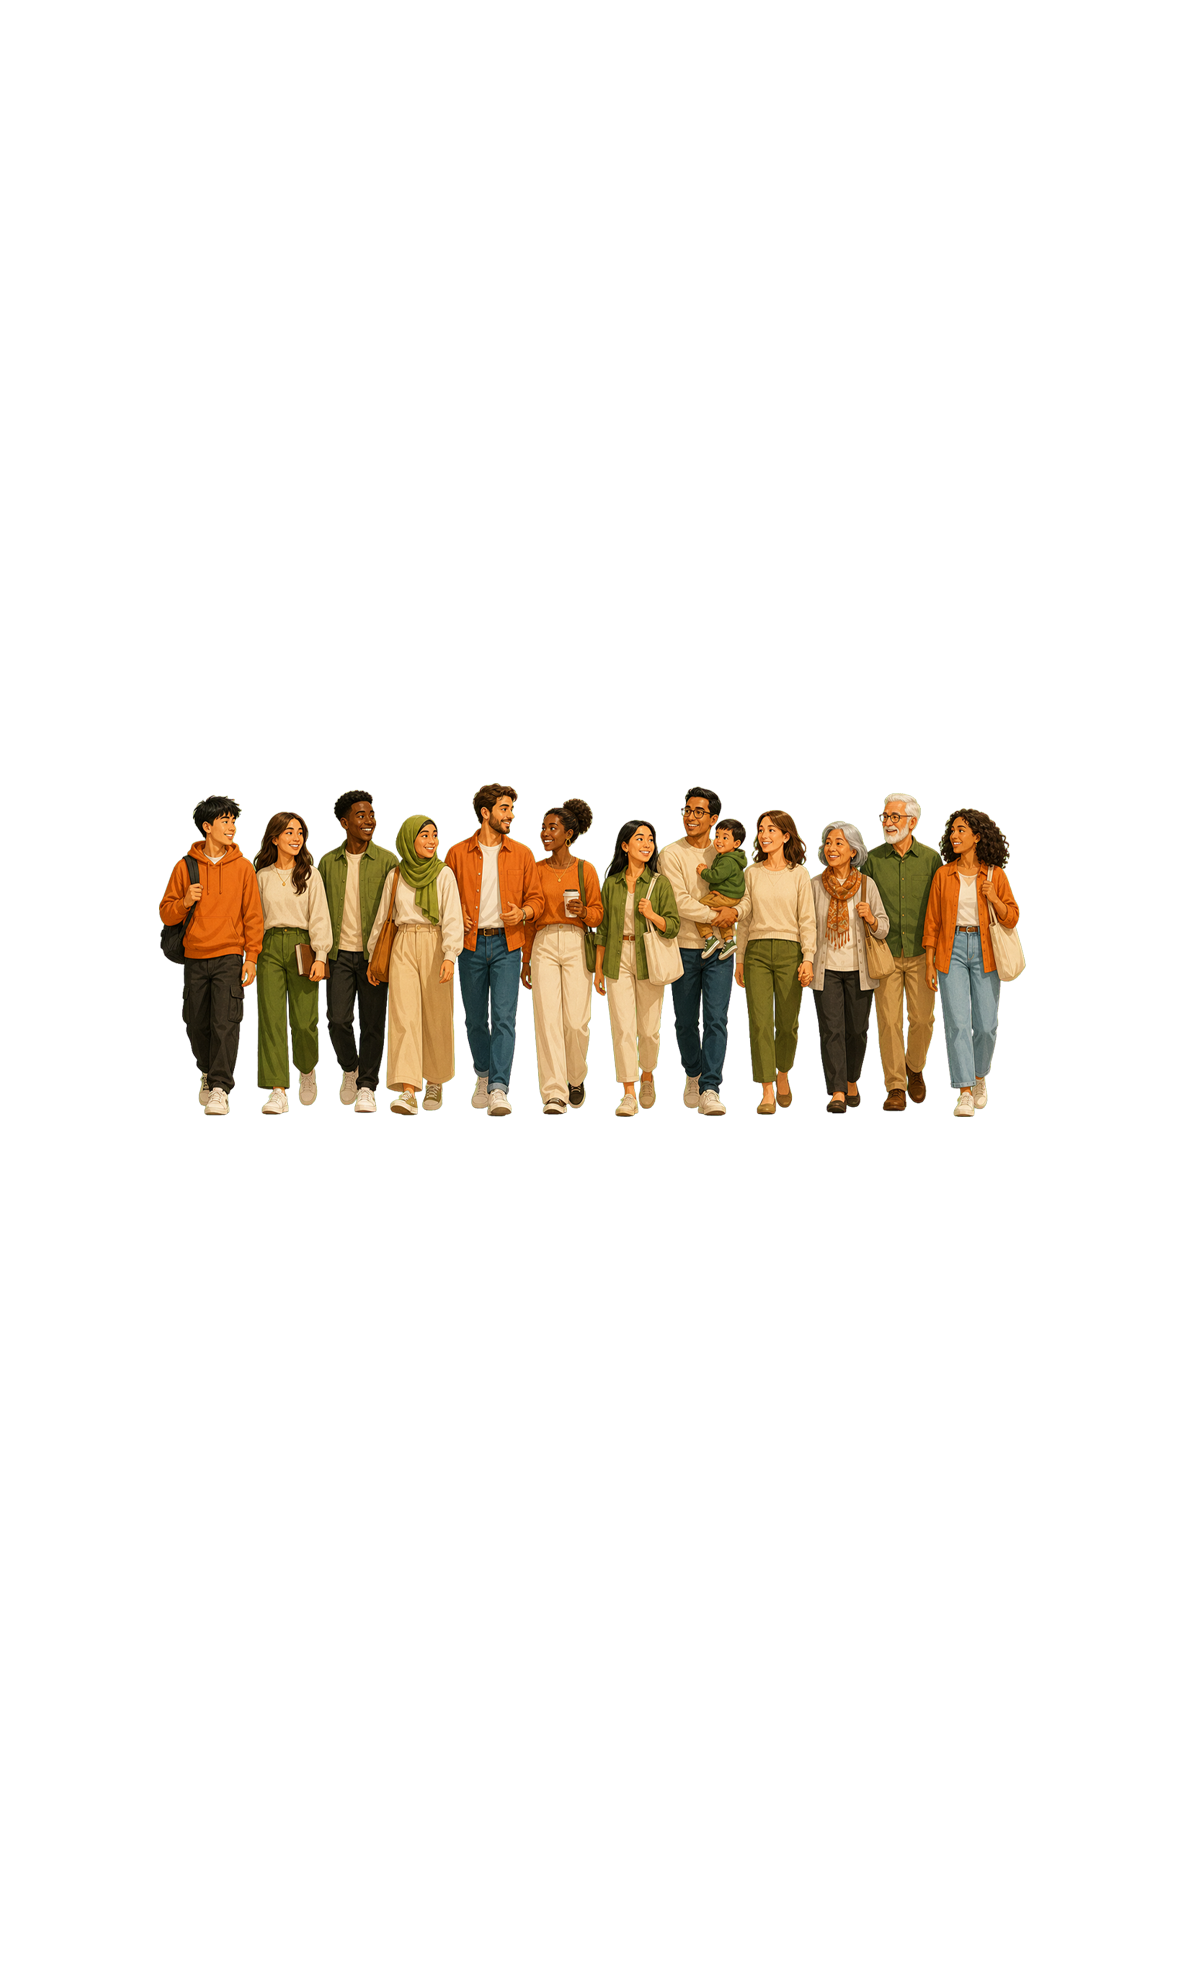
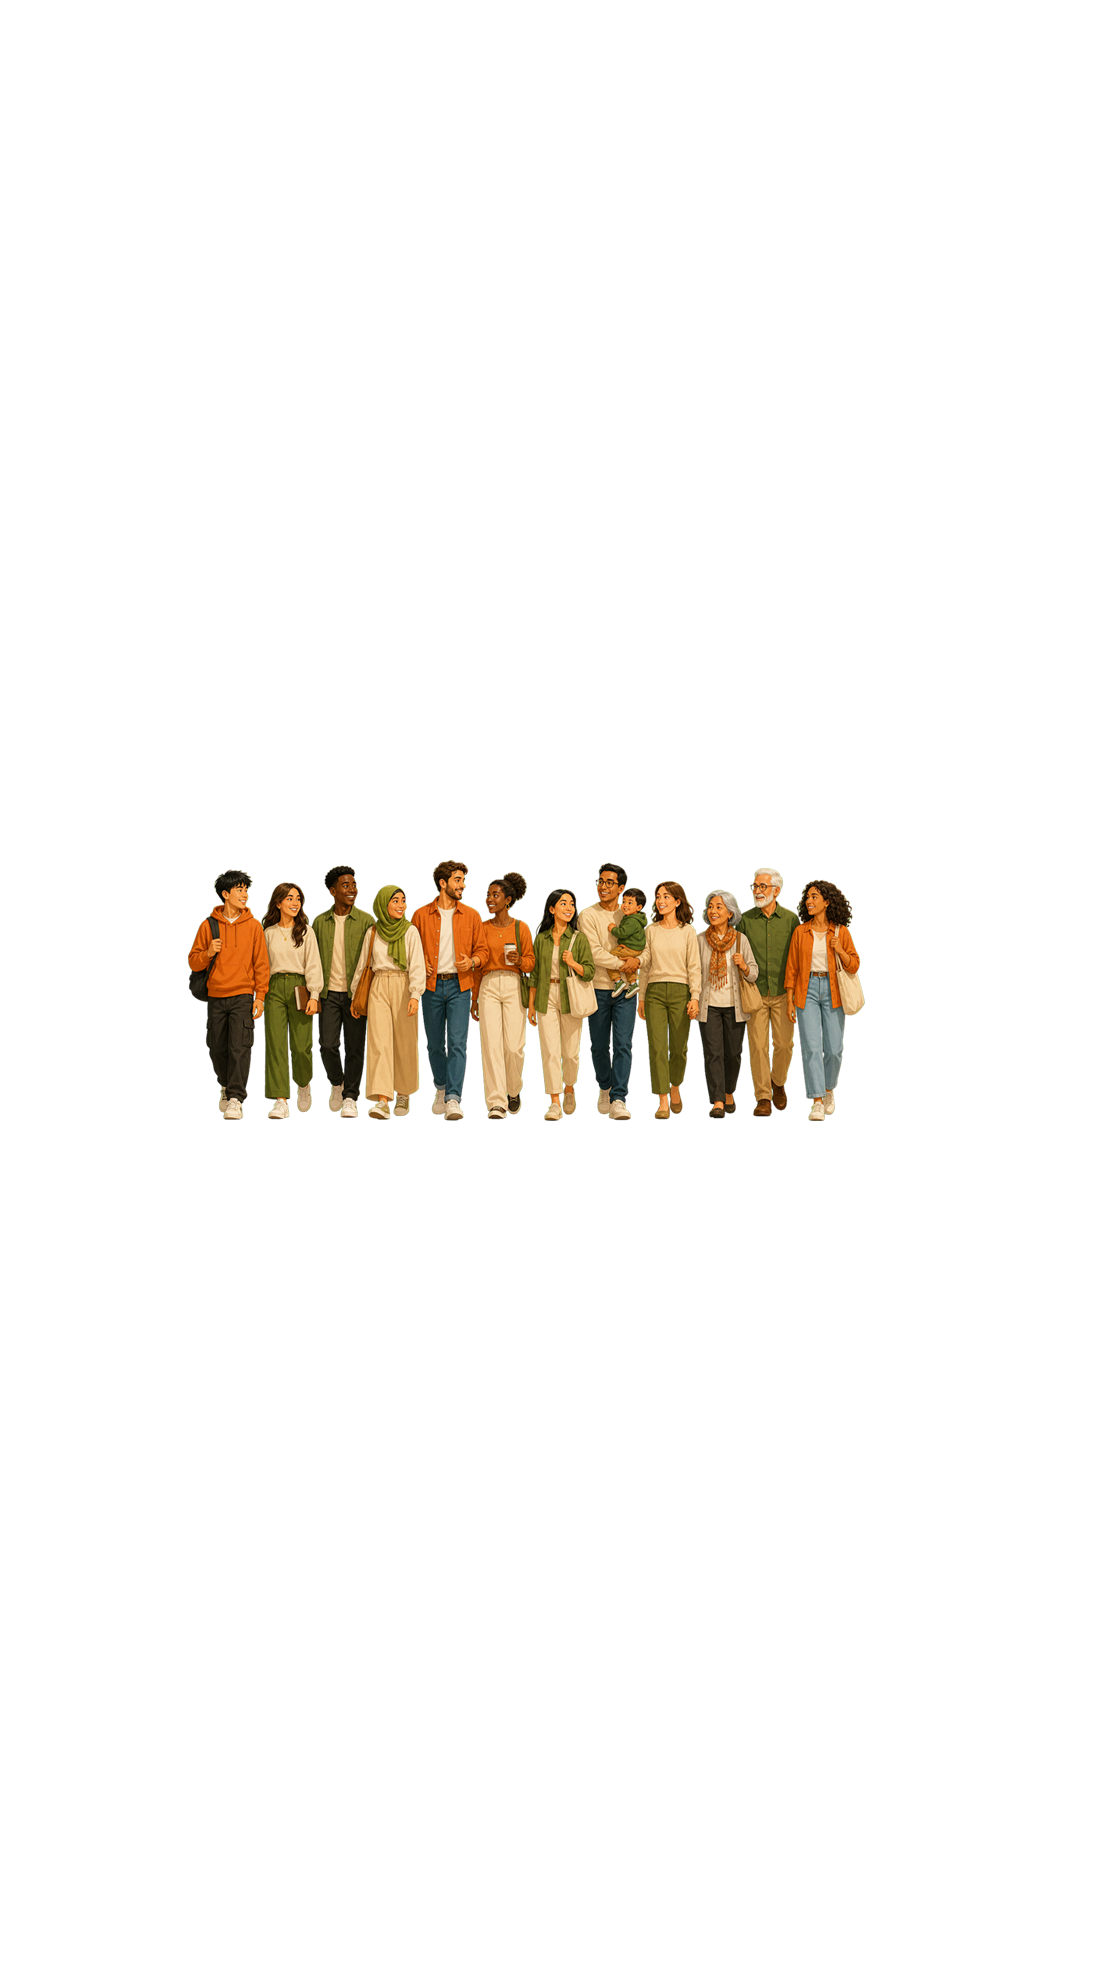
Publish admin workspace update

Changed region(s): [[0.1221, 0.3697, 0.8851, 0.5854]]

diff --git a/oneinhim_admin_workshop.html b/oneinhim_admin_workshop.html
@@ -527,6 +527,17 @@
       object-fit: cover;
     }
 
+    .card-preview-placeholder {
+      align-items: center;
+      color: var(--muted);
+      display: flex;
+      font-weight: 900;
+      height: 100%;
+      justify-content: center;
+      padding: 20px;
+      text-align: center;
+    }
+
     .card-remove {
       position: absolute;
       top: 8px;
@@ -1321,12 +1332,15 @@
         </button>
       `).join("");
       document.getElementById("shelfPreviewTitle").textContent = shelf.title || "Shelf preview";
-      document.getElementById("shelfCards").innerHTML = (shelf.items || []).map((item, index) => `
+      document.getElementById("shelfCards").innerHTML = (shelf.items || []).map((item, index) => {
+        const artwork = item.artwork || selectedContent(item.contentId || item.target)?.artwork || "";
+        return `
         <div class="card-preview ${esc(shelf.cardSize || "wide")}${index === state.shelfItemIndex ? " active" : ""}" role="button" tabindex="0" data-shelf-item-index="${index}" aria-label="Edit ${esc(shelfItemLabel(item))} artwork">
-          <img src="${esc(item.artwork || selectedContent(item.contentId || item.target)?.artwork || "")}" alt="${esc(item.alt || "")}" />
+          ${artwork ? `<img src="${esc(artwork)}" alt="${esc(item.alt || "")}" />` : `<div class="card-preview-placeholder">Add artwork path</div>`}
           <button class="card-remove" type="button" data-remove-shelf-item="${index}" aria-label="Remove ${esc(shelfItemLabel(item))}">Remove</button>
         </div>
-      `).join("");
+      `;
+      }).join("");
       document.getElementById("shelfTitle").value = shelf.title || "";
       document.getElementById("shelfMode").value = shelf.mode || "";
       document.getElementById("shelfSize").value = shelf.cardSize || "wide";
